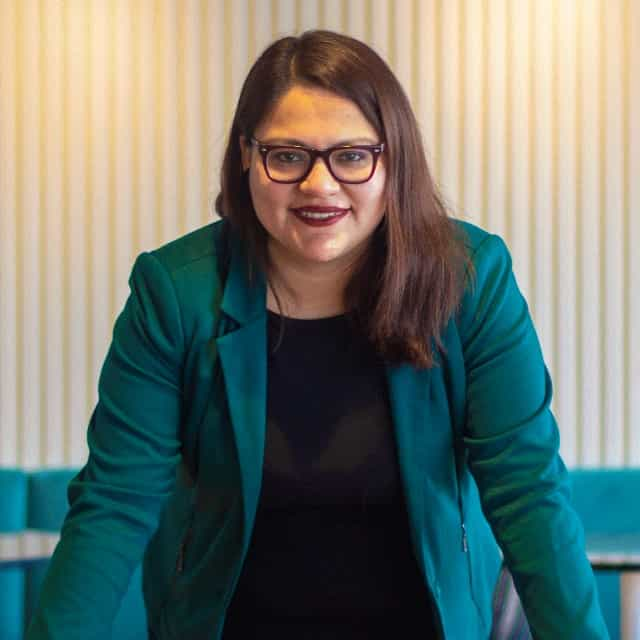
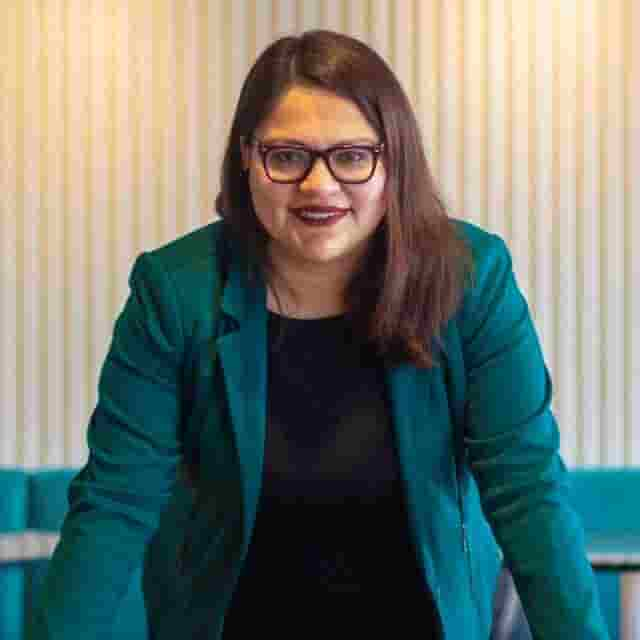
update imagenes a webp y agregar alt

diff --git a/index.html b/index.html
@@ -31,7 +31,7 @@
 </head>
 <body>
     <div class="content container-fluid">
-        <header ><img class="header" src="./asset/img/Acredu.png" alt=""></header>
+        <header ><img class="header" src="./asset/img/Acredu.png" alt="Acredu Certificados Digitales Web"></header>
         <div class="slider">
             <h1 class="slider-title">Certificados Digitales</h1>
             <h2 class="slider-subtitle">Premia reconoce el logro de tus alumnos en el mundo digital</h2>
@@ -50,7 +50,7 @@
                 <div id="card1" class="feature-card">
                 
                     <div class="feature-image-wrapper"><img class="feature-image" src="./asset/img/vacantesagotadas.jpeg"
-                            alt="Vende mas"></div>
+                            alt="Vende más tus cursos"></div>
                     <div class="feature-card-text">
                         <h3 class="feature-title">Aumento de Inscritos</h3>
                         <p class="feature-txt">Reduce el tiempo en que logras completar las vacantes de tu curso</p>
@@ -59,7 +59,7 @@
                 </div>
                 <div id="card2" class="feature-card">
                 
-                    <div class="feature-image-wrapper"><img class="feature-image" src="./asset/img/verificador.png" alt=""></div>
+                    <div class="feature-image-wrapper"><img class="feature-image" src="./asset/img/verificador.webp" alt="Verificador Web Acredu"></div>
                     <div class="feature-card-text">
                         <h3 class="feature-title">Trazabilidad</h3>
                         <p class="feature-txt">Genera confianza con los interesados con certificados verificables</p>
@@ -68,7 +68,7 @@
                 </div>
                 <div id="card3" class="feature-card">
                 
-                    <div class="feature-image-wrapper"><img class="feature-image" src="./asset/img/visibilidad.jpg" alt=""></div>
+                    <div class="feature-image-wrapper"><img class="feature-image" src="./asset/img/visibilidad.webp" alt="Visibilidad de tu Marca"></div>
                     <div class="feature-card-text">
                         <h3 class="feature-title">Visibilidad de marca</h3>
                         <p class="feature-txt">Aumenta tu exposición de marca en buscadores y en linkedin</p>
@@ -82,16 +82,16 @@
             <h3>Premios</h3>
             <div class="awards-grid">
                 <div class="awards-grid-image">
-                    <img class="awards-image" src="./asset/img/sup.jpg" alt="">
+                    <img class="awards-image" src="./asset/img/sup.jpg" alt="Startup Chile">
                 </div>
                 <div class="awards-grid-image">
-                    <img class="awards-image" src="./asset/img/ycombinator.png" alt="">
+                    <img class="awards-image" src="./asset/img/ycombinator.webp" alt="Ycombinator">
                 </div>
                 <div class="awards-grid-image">
-                    <img class="awards-image" src="./asset/img/ibm.png" alt="">
+                    <img class="awards-image" src="./asset/img/ibm.png" alt="IBM Startup">
                 </div>
                 <div class="awards-grid-image">
-                    <img class="awards-image" src="./asset/img/techprendedores.jpeg" alt="">
+                    <img class="awards-image" src="./asset/img/techprendedores.jpeg" alt="Techprendedores Panama">
                 </div>
             </div>
         
@@ -100,7 +100,7 @@
             <div id="btnwap" class="calltoaction-button pulse"><i class="fab fa-whatsapp"></i> ¡Conversemos! </div>
             <div id="winchat" class="calltoaction">
                 <div class="calltoaction-user-wrapper">
-                    <img class="calltoaction-user" src="./asset/img/lou.jpeg" alt="">
+                    <img class="calltoaction-user" src="./asset/img/lou.jpeg" alt="Lourdes Uzuriaga">
                     <div>
                         <p class="calltoaction-name">Lourdes Uzuriaga</p>
                         <p class="calltoaction-status">en linea</p>
@@ -125,13 +125,13 @@
                     class="btnwsapp">
                     <div class="calltoaction-chat-button">
                         <div class="calltoaction-chat-input">
-                            <img src="./asset/img/smile.svg" alt="">
+                            <img src="./asset/img/smile.svg" alt="whastapp acredu">
                             <p class="txt-chat-input">Escribe un mensaje</p>
-                            <img src="./asset/img/clip.svg" alt="">
-                            <img src="./asset/img/cam.svg" alt="">
+                            <img src="./asset/img/clip.svg" alt="whastapp acredu">
+                            <img src="./asset/img/cam.svg" alt="whastapp acredu">
                         </div>
                         <div class="icon-chat-micro">
-                            <img class="icon-chat-input" src="./asset/img/micro.svg" alt="">
+                            <img class="icon-chat-input" src="./asset/img/micro.svg" alt="whastapp acredu">
                         </div>
             
                     </div>
@@ -161,7 +161,7 @@
                     <video controls id="video1" autoplay >
                         <source src="./asset/img/video1.mp4"
                             type="video/mp4">
-                        Your browser doesn't support HTML5 video tag.
+                        :( tu navegador no soporta HTM5 actualizalo please.
                     </video>
                 </div>
                 
